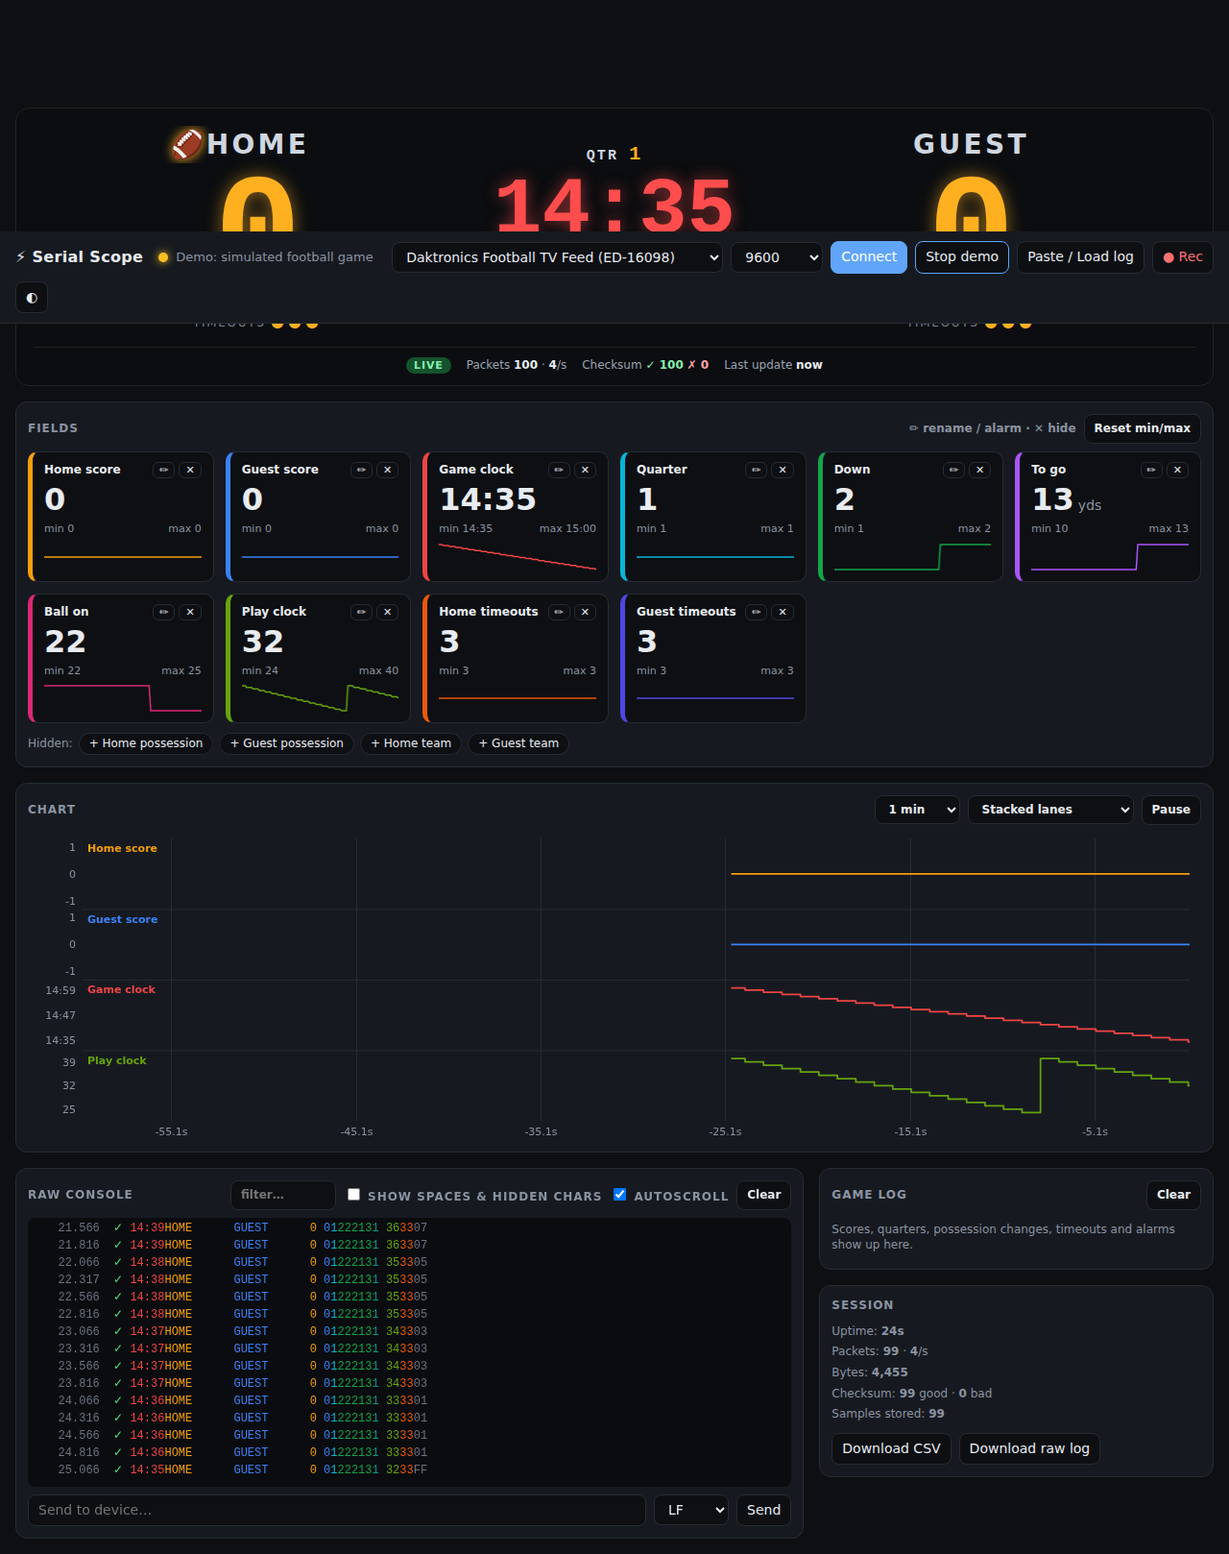
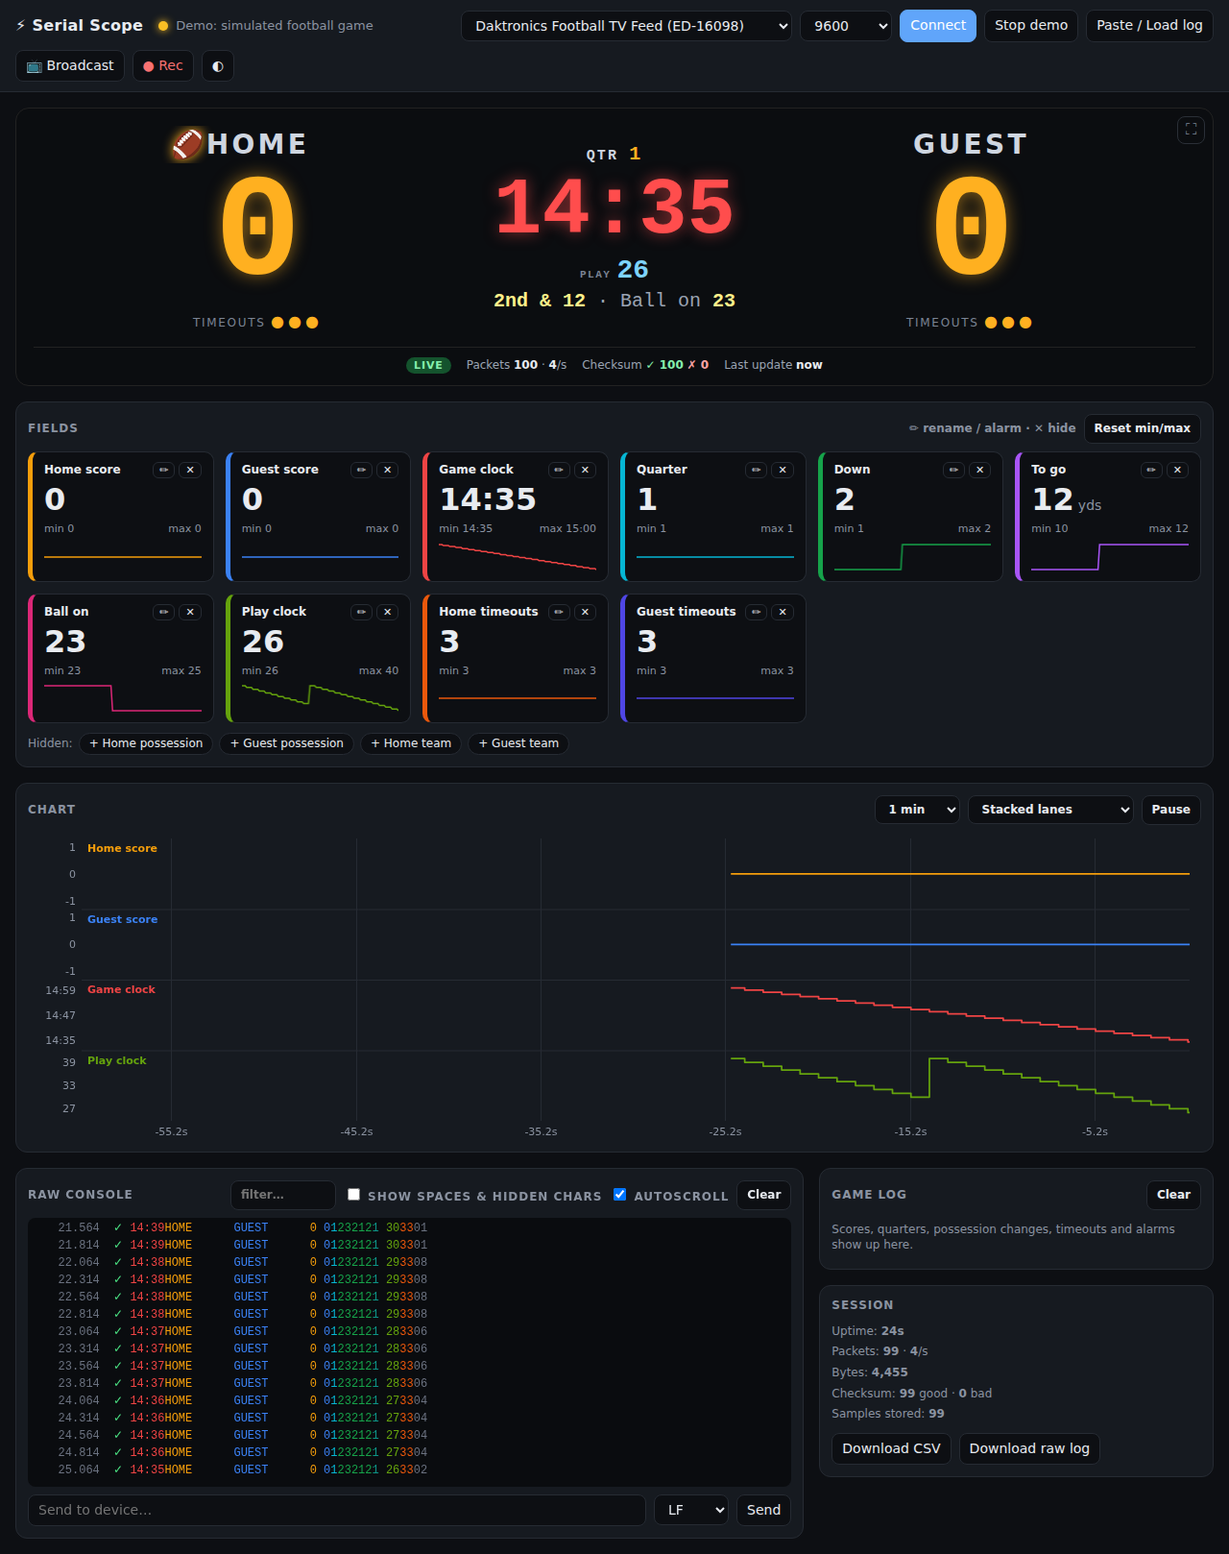
Serial Scope: add OBS broadcast overlay and full-screen scoreboard
Writes overlay.html, a live scoreboard.js and per-value .txt files to a
chosen folder for an OBS Browser Source or Text sources, with team
names/colors and score banners. Also a chroma-key overlay window and a
full-screen button on the scoreboard.

Claude-Session: https://claude.ai/code/session_01YVLBbhK5ZotABU6wziRkpi

diff --git a/serial-scope/index.html b/serial-scope/index.html
@@ -129,6 +129,22 @@
   dialog label.f { display: block; margin: 10px 0 4px; font-size: 12px; color: var(--muted); }
   dialog input[type=text], dialog input[type=number] { width: 100%; }
   dialog textarea { width: 100%; height: 160px; font: 12px ui-monospace, Consolas, monospace; }
+
+  /* ---- broadcast + full screen ---- */
+  #board { position: relative; }
+  #board .fs { position: absolute; top: 8px; right: 8px; background: transparent; color: #7b8494; border-color: #2a2f37; padding: 2px 8px; font-size: 16px; }
+  #board:fullscreen { display: flex; flex-direction: column; justify-content: center; border-radius: 0; }
+  #board:fullscreen .score { font-size: 26vh; } #board:fullscreen .clock { font-size: 15vh; }
+  #bcBtn.on { border-color: var(--ok); color: var(--ok); }
+  #bcDlg { width: min(780px, calc(100vw - 32px)); }
+  #bcDlg h3 { font-size: 13px; margin: 18px 0 4px; }
+  #bcDlg ol { margin: 6px 0; padding-left: 20px; line-height: 1.7; }
+  .prevwrap { width: 100%; overflow: hidden; border-radius: 8px; margin: 10px 0; background: #2b2f36; }
+  .prevwrap iframe { width: 1200px; height: 150px; border: 0; transform-origin: 0 0; display: block; }
+  .bcgrid { display: grid; grid-template-columns: 1fr auto 1fr auto; gap: 8px; align-items: end; }
+  .bcgrid label { font-size: 12px; color: var(--muted); display: grid; gap: 4px; }
+  .bcgrid input[type=color] { width: 48px; height: 34px; padding: 2px; }
+  @media (max-width: 560px) { .bcgrid { grid-template-columns: 1fr auto; } }
 </style>
 </head>
 <body>
@@ -145,6 +161,7 @@
   <button id="connect" class="primary">Connect</button>
   <button id="demo" title="Simulated data, to try the UI without a device">Demo</button>
   <button id="feedBtn" title="Paste text or load a Tera Term log file">Paste / Load log</button>
+  <button id="bcBtn" title="Score overlay for OBS and live streams">📺 Broadcast</button>
   <button id="rec" class="rec" title="Record values to CSV">● Rec</button>
   <button id="theme" title="Toggle theme">◐</button>
 </header>
@@ -156,6 +173,7 @@
   </div>
 
   <section id="board">
+    <button id="fsBtn" class="fs" title="Full screen scoreboard">⛶</button>
     <div class="grid">
       <div>
         <div class="team"><span class="poss" id="bHomePoss">🏈</span><span id="bHomeName">HOME</span><span class="poss"></span></div>
@@ -270,6 +288,47 @@
       <label class="hint"><input type="checkbox" id="feedSlow" checked> replay slowly (5 packets/s)</label>
     </div>
     <div class="row"><button value="feed" class="primary">Feed it in</button><button value="cancel">Cancel</button></div>
+  </form>
+</dialog>
+
+<dialog id="bcDlg">
+  <form method="dialog">
+    <b>📺 Broadcast overlay for OBS</b>
+    <div class="prevwrap" id="bcPrevWrap"><iframe id="bcPrev" title="Overlay preview"></iframe></div>
+    <div class="bcgrid">
+      <label>Home name on stream<input id="bcHomeName" type="text" placeholder="from the feed"></label>
+      <label>Color<input id="bcHomeColor" type="color"></label>
+      <label>Guest name on stream<input id="bcGuestName" type="text" placeholder="from the feed"></label>
+      <label>Color<input id="bcGuestColor" type="color"></label>
+    </div>
+    <div class="row">
+      <label class="hint"><input type="checkbox" id="bcBanners"> Pop up TOUCHDOWN / FIELD GOAL banners when the score changes</label>
+      <button type="button" id="bcTest">Test banner</button>
+    </div>
+
+    <h3>Option 1 · OBS Browser Source <span class="hint">(best: transparent background)</span></h3>
+    <div class="row">
+      <button type="button" id="bcPick" class="primary">Choose output folder…</button>
+      <button type="button" id="bcResume" hidden>Resume</button>
+      <button type="button" id="bcStop" hidden>Stop writing</button>
+    </div>
+    <p class="hint" id="bcStatus">Not writing files.</p>
+    <ol class="hint">
+      <li>Make a new empty folder (e.g. <i>Documents\Scoreboard Overlay</i>) and choose it above.</li>
+      <li>In OBS: <b>+</b> under Sources → <b>Browser</b> → tick <b>Local file</b> → pick <b>overlay.html</b> in that folder.</li>
+      <li>Width <b>1200</b>, Height <b>150</b> → OK. Drag it where you want it on screen.</li>
+    </ol>
+    <p class="hint">The folder also gets one text file per value (home_score.txt, clock.txt, down_distance.txt…)
+      for OBS <b>Text</b> sources with "Read from file" ticked.</p>
+
+    <h3>Option 2 · Overlay window</h3>
+    <div class="row">
+      <button type="button" id="bcPopup">Open overlay window</button>
+      <label class="hint">Background
+        <select id="bcKey"><option value="green">Green (chroma key)</option><option value="magenta">Magenta</option><option value="black">Black</option></select></label>
+    </div>
+    <p class="hint">In OBS add a <b>Window Capture</b> of that window, then right-click it → Filters → <b>Chroma Key</b>.</p>
+    <div class="row" style="margin-top:14px"><button value="close" class="primary">Done</button></div>
   </form>
 </dialog>
 
@@ -630,6 +689,7 @@
           const d = b - a, what = d > 0 && PLAY_NAMES[d] ? ` · ${PLAY_NAMES[d]}?` : '';
           addEvent(`🏟 <b>${esc(name)}</b> ${a} → <b>${b}</b> (${d > 0 ? '+' : ''}${d})${what}${qs}${at}`, true);
           flashScore(k);
+          if (d > 0) setBanner(k, d);
         }
       }
       if (isFinite(cur.q) && cur.q !== prev.q) addEvent(`⏱ Quarter <b>${cur.q}</b>`, true);
@@ -1094,6 +1154,262 @@
   };
 
   // =====================================================================
+  //  Broadcast: OBS overlay + text files
+  // =====================================================================
+  //  Option 1: pick a folder. We write overlay.html (an OBS Browser Source page with a
+  //  transparent background), scoreboard.js (live data the overlay reloads 4x/s; a <script>
+  //  include works from file:// where fetch() does not), and one .txt per value for Text sources.
+  //  Option 2: a pop-up overlay window on a chroma-key background for Window Capture.
+  const bc = Object.assign({ homeName: '', guestName: '', homeColor: '#b91c1c', guestColor: '#1d4ed8', banners: true, key: 'green' }, store.get('bcast', {}));
+  const BANNERS = { 6: 'TOUCHDOWN', 3: 'FIELD GOAL', 2: '2 POINTS', 1: 'EXTRA POINT' };
+  let banner = null, bannerSeq = 0;
+  function setBanner(team, d) { banner = { id: ++bannerSeq, at: Date.now(), team, text: BANNERS[d] || '+' + d }; }
+
+  function bcState() {
+    const F = k => fields.get(k);
+    const T = k => { const f = F(k); return !f ? '' : f.kind === 'num' && isFinite(f.last) ? String(f.last) : (f.text || ''); };
+    const N = k => F(k)?.last ?? NaN;
+    const q = N('quarter'), down = N('down'), togo = N('toGo'), ball = N('ballOn');
+    return {
+      hn: bc.homeName || T('homeName') || 'HOME', gn: bc.guestName || T('guestName') || 'GUEST',
+      hs: T('home'), gs: T('guest'), clock: T('clock'), play: T('playClock'),
+      q: isFinite(q) && q > 0 ? (q > 4 ? 'OT' : ordinal(q)) : '',
+      dd: isFinite(down) && down > 0 ? ordinal(down) + (isFinite(togo) ? ' & ' + togo : '') : '',
+      ball: isFinite(ball) ? 'Ball on ' + ball : '',
+      poss: hasBall(F('homePoss')?.text) ? 'home' : hasBall(F('guestPoss')?.text) ? 'guest' : '',
+      htol: isFinite(N('homeTOL')) ? N('homeTOL') : null, gtol: isFinite(N('guestTOL')) ? N('guestTOL') : null,
+      hc: bc.homeColor, gc: bc.guestColor, banners: bc.banners, banner,
+    };
+  }
+  function bcTextFiles(s) {
+    const n = v => v == null ? '' : String(v);
+    return {
+      'home_name.txt': s.hn, 'guest_name.txt': s.gn, 'home_score.txt': s.hs, 'guest_score.txt': s.gs,
+      'quarter.txt': s.q, 'clock.txt': s.clock, 'play_clock.txt': s.play, 'down_distance.txt': s.dd,
+      'ball_on.txt': s.ball, 'possession.txt': s.poss === 'home' ? s.hn : s.poss === 'guest' ? s.gn : '',
+      'home_timeouts.txt': n(s.htol), 'guest_timeouts.txt': n(s.gtol),
+    };
+  }
+
+  // The overlay page's own script. It's stringified into the page, so it must not use outside variables.
+  function overlayScript(mode) {
+    const $ = id => document.getElementById(id);
+    let lastBanner = null, hideT = 0;
+    const prev = {};
+    function team(id, name, score, poss, tol, color) {
+      const el = $(id);
+      el.style.setProperty('--c', color);
+      el.querySelector('.name').textContent = name;
+      const sc = el.querySelector('.score');
+      if (prev[id] !== undefined && prev[id] !== score) { sc.classList.remove('pop'); void sc.offsetWidth; sc.classList.add('pop'); }
+      prev[id] = score;
+      sc.textContent = score;
+      el.querySelector('.poss').classList.toggle('on', poss);
+      const t = el.querySelector('.tol'), has = typeof tol === 'number' && tol >= 0;
+      t.style.display = has ? '' : 'none';
+      [...t.children].forEach((i, k) => i.classList.toggle('used', has && k >= tol));
+    }
+    function render(s) {
+      team('home', s.hn, s.hs, s.poss === 'home', s.htol, s.hc);
+      team('guest', s.gn, s.gs, s.poss === 'guest', s.gtol, s.gc);
+      $('q').textContent = s.q ? s.q + (s.q === 'OT' ? '' : ' QTR') : '';
+      $('clock').textContent = s.clock || '';
+      $('dd').textContent = s.dd || '';
+      $('ball').textContent = s.ball || '';
+      $('play').textContent = '';
+      if (s.play) { $('play').append('PLAY '); const b = document.createElement('b'); b.textContent = s.play; $('play').append(b); }
+      $('bug').classList.toggle('nostrip', !s.dd && !s.ball && !s.play);
+      const b = s.banner;
+      if (b && b.id !== lastBanner) {
+        lastBanner = b.id;
+        if (s.banners && Date.now() - b.at < 6000) {
+          const el = $('banner');
+          el.textContent = b.text + '  ·  ' + (b.team === 'home' ? s.hn : s.gn);
+          el.style.setProperty('--c', b.team === 'home' ? s.hc : s.gc);
+          el.classList.add('show'); clearTimeout(hideT);
+          hideT = setTimeout(() => el.classList.remove('show'), 4500);
+        }
+      }
+    }
+    window.render = window.SCOREBOARD = render;
+    if (mode === 'poll') setInterval(() => {
+      const s = document.createElement('script');
+      s.src = 'scoreboard.js?' + Date.now();
+      s.onload = s.onerror = () => s.remove();
+      document.head.appendChild(s);
+    }, 250);
+  }
+  const SC = 'script';
+  function overlayHtml(mode, bg) {
+    return `<!doctype html>
+<html><head><meta charset="utf-8"><title>Scoreboard overlay</title>
+<style>
+  html, body { margin: 0; overflow: hidden; background: transparent; font-family: "Segoe UI", system-ui, -apple-system, Roboto, sans-serif; }
+  body.bg-green { background: #00ff00; } body.bg-magenta { background: #ff00ff; } body.bg-black { background: #000; }
+  body.bg-checker { background: repeating-conic-gradient(#3a3f47 0 25%, #2b2f36 0 50%) 0 0 / 24px 24px; }
+  .bug { position: absolute; left: 10px; top: 10px; width: 1180px; filter: drop-shadow(0 6px 14px rgba(0,0,0,.5)); }
+  .bar { position: relative; display: flex; height: 86px; border-radius: 10px 10px 0 0; overflow: hidden; background: #0d1117; }
+  .nostrip .bar { border-radius: 10px; }
+  .team { flex: 1; display: flex; align-items: center; gap: 12px; padding-left: 20px; color: #fff; position: relative; min-width: 0;
+    background: linear-gradient(180deg, rgba(255,255,255,.14), rgba(0,0,0,.28)), var(--c, #444); }
+  .team + .team { border-left: 3px solid #0d1117; }
+  .name { flex: 1; min-width: 0; font-size: 34px; font-weight: 800; letter-spacing: .06em; text-transform: uppercase;
+    white-space: nowrap; overflow: hidden; text-overflow: ellipsis; text-shadow: 0 2px 4px rgba(0,0,0,.35); }
+  .poss { font-size: 28px; visibility: hidden; } .poss.on { visibility: visible; }
+  .score { align-self: stretch; min-width: 96px; display: grid; place-items: center; font-size: 58px; font-weight: 900;
+    background: rgba(0,0,0,.28); font-variant-numeric: tabular-nums; }
+  .score.pop { animation: pop .9s ease-out; }
+  @keyframes pop { 0% { transform: scale(1.35); background: rgba(255,255,255,.45); } 100% { transform: scale(1); } }
+  .tol { position: absolute; left: 20px; bottom: 9px; display: flex; gap: 6px; }
+  .tol i { width: 24px; height: 5px; border-radius: 3px; background: #ffd34d; }
+  .tol i.used { background: rgba(255,255,255,.25); }
+  .mid { width: 220px; display: grid; place-content: center; text-align: center; color: #fff; background: #0d1117; }
+  #q { font-size: 17px; font-weight: 800; letter-spacing: .16em; color: #ffb020; min-height: 1.2em; }
+  #clock { font-size: 46px; font-weight: 800; line-height: 1; font-variant-numeric: tabular-nums; }
+  .banner { position: absolute; inset: 0; display: grid; place-items: center; color: #fff; font-size: 50px; font-weight: 900;
+    letter-spacing: .14em; white-space: nowrap; background: linear-gradient(180deg, rgba(255,255,255,.18), rgba(0,0,0,.3)), var(--c, #b91c1c);
+    transform: scaleX(0); transition: transform .35s cubic-bezier(.2,.9,.3,1.2); }
+  .banner.show { transform: scaleX(1); }
+  .strip { height: 40px; display: flex; justify-content: center; align-items: center; gap: 34px; background: #f5f7fa; color: #0d1117;
+    font-size: 22px; font-weight: 800; border-radius: 0 0 10px 10px; }
+  .strip span:empty { display: none; }
+  .strip b { color: #c81e1e; }
+  .nostrip .strip { display: none; }
+</style></head>
+<body class="bg-${bg}">
+<div class="bug nostrip" id="bug">
+  <div class="bar">
+    <div class="team" id="home"><span class="name">HOME</span><span class="poss">🏈</span><span class="score"></span><span class="tol"><i></i><i></i><i></i></span></div>
+    <div class="team" id="guest"><span class="name">GUEST</span><span class="poss">🏈</span><span class="score"></span><span class="tol"><i></i><i></i><i></i></span></div>
+    <div class="mid"><div id="q"></div><div id="clock"></div></div>
+    <div class="banner" id="banner"></div>
+  </div>
+  <div class="strip"><span id="dd"></span><span id="ball"></span><span id="play"></span></div>
+</div>
+<${SC}>(${overlayScript.toString()})(${JSON.stringify(mode)});</${SC}>
+</body></html>`;
+  }
+  const SETUP_TXT = [
+    'Serial Scope -> OBS',
+    '',
+    '1. In OBS, click + under Sources and choose "Browser".',
+    '2. Tick "Local file" and pick overlay.html in this folder.',
+    '3. Set Width 1200 and Height 150, then click OK.',
+    '4. Drag and resize the overlay to where you want it on the stream.',
+    '',
+    'The .txt files hold single values (home_score.txt, clock.txt, ...).',
+    'Use them with a "Text (GDI+)" source: tick "Read from file".',
+    '',
+    'Keep Serial Scope open in Chrome or Edge while streaming. It updates these files several times a second.',
+  ].join('\r\n');
+
+  // ---- folder output ----
+  let outDir = null, lastWritten = {}, writing = false, lastWriteAt = null;
+  function idb(mode, fn) {
+    return new Promise((res, rej) => {
+      const r = indexedDB.open('serialscope', 1);
+      r.onupgradeneeded = () => r.result.createObjectStore('kv');
+      r.onerror = () => rej(r.error);
+      r.onsuccess = () => {
+        try {
+          const tx = r.result.transaction('kv', mode), q = fn(tx.objectStore('kv'));
+          tx.oncomplete = () => res(q.result); tx.onerror = () => rej(tx.error);
+        } catch (e) { rej(e); }
+      };
+    });
+  }
+  async function writeFile(name, text) {
+    const fh = await outDir.getFileHandle(name, { create: true });
+    const w = await fh.createWritable();
+    await w.write(text); await w.close();
+  }
+  async function startFolder(h) {
+    outDir = h; lastWritten = {};
+    try {
+      await writeFile('overlay.html', overlayHtml('poll', 'transparent'));
+      await writeFile('OBS-SETUP.txt', SETUP_TXT);
+      sys(`broadcast: writing overlay files to folder "${h.name}"`);
+      try { await idb('readwrite', s => s.put(h, 'outDir')); } catch {}
+    } catch (e) { sys('broadcast: could not write to that folder: ' + e.message); outDir = null; }
+    updateBcUi();
+  }
+  async function pumpFiles() {
+    if (!outDir || writing) return;
+    writing = true;
+    try {
+      const st = bcState();
+      const files = bcTextFiles(st);
+      files['scoreboard.js'] = 'SCOREBOARD(' + JSON.stringify(st) + ');';
+      for (const [name, text] of Object.entries(files)) {
+        if (lastWritten[name] === text) continue;
+        await writeFile(name, text); lastWritten[name] = text;
+      }
+      lastWriteAt = now();
+    } catch (e) { sys('broadcast: writing stopped: ' + e.message); outDir = null; updateBcUi(); }
+    finally { writing = false; }
+  }
+  setInterval(pumpFiles, 250);
+
+  let savedDir = null;
+  idb('readonly', s => s.get('outDir')).then(h => { savedDir = h || null; updateBcUi(); }).catch(() => {});
+  $('bcPick').onclick = async () => {
+    if (!window.showDirectoryPicker) { $('bcStatus').textContent = 'This browser can\'t write to folders. Use Chrome or Edge on a desktop.'; return; }
+    try { await startFolder(await showDirectoryPicker({ id: 'serialscope-obs', mode: 'readwrite' })); }
+    catch (e) { if (e.name !== 'AbortError') sys('broadcast: ' + e.message); }
+  };
+  $('bcResume').onclick = async () => {
+    try { if (await savedDir.requestPermission({ mode: 'readwrite' }) === 'granted') await startFolder(savedDir); }
+    catch (e) { sys('broadcast: ' + e.message); }
+  };
+  $('bcStop').onclick = () => { outDir = null; sys('broadcast: stopped writing files'); updateBcUi(); };
+  function updateBcUi() {
+    $('bcStop').hidden = !outDir;
+    $('bcResume').hidden = !!outDir || !savedDir;
+    if (savedDir) $('bcResume').textContent = `Resume “${savedDir.name}”`;
+    $('bcBtn').classList.toggle('on', !!outDir);
+    if (!outDir) $('bcStatus').textContent = 'Not writing files.';
+  }
+
+  // ---- pop-up window + in-dialog preview ----
+  let popup = null;
+  function openPopup() {
+    popup = window.open('', 'serialscope-overlay', 'width=1220,height=200');
+    if (!popup) { sys('broadcast: the pop-up was blocked. Allow pop-ups for this page'); return; }
+    popup.document.open(); popup.document.write(overlayHtml('push', bc.key)); popup.document.close();
+  }
+  $('bcPopup').onclick = openPopup;
+  function bcPush() {
+    const dlgOpen = $('bcDlg').open;
+    if (outDir) $('bcStatus').textContent = `Writing to “${outDir.name}”` + (lastWriteAt != null ? ` · updated ${fmtDur(Math.max(0, Math.floor(now() - lastWriteAt)))} ago` : '');
+    if (!dlgOpen && !(popup && !popup.closed)) return;
+    const st = bcState();
+    for (const w of [popup && !popup.closed ? popup : null, dlgOpen ? $('bcPrev').contentWindow : null]) {
+      try { w?.render?.(st); } catch {}
+    }
+  }
+  function fitPreview() {
+    const wrap = $('bcPrevWrap'), s = wrap.clientWidth / 1200;
+    $('bcPrev').style.transform = `scale(${s})`; wrap.style.height = 150 * s + 'px';
+  }
+  $('bcBtn').onclick = () => {
+    for (const [id, k] of [['bcHomeName', 'homeName'], ['bcGuestName', 'guestName'], ['bcHomeColor', 'homeColor'], ['bcGuestColor', 'guestColor'], ['bcKey', 'key']]) $(id).value = bc[k];
+    $('bcBanners').checked = bc.banners;
+    if (!$('bcPrev').srcdoc) $('bcPrev').srcdoc = overlayHtml('push', 'checker');
+    $('bcDlg').showModal(); fitPreview();
+  };
+  window.addEventListener('resize', () => { if ($('bcDlg').open) fitPreview(); });
+  for (const [id, k] of [['bcHomeName', 'homeName'], ['bcGuestName', 'guestName'], ['bcHomeColor', 'homeColor'], ['bcGuestColor', 'guestColor'], ['bcKey', 'key'], ['bcBanners', 'banners']])
+    $(id).addEventListener('input', () => {
+      bc[k] = k === 'banners' ? $(id).checked : $(id).value.trim();
+      store.set('bcast', bc);
+      if (k === 'key' && popup && !popup.closed) popup.document.body.className = 'bg-' + bc.key;
+    });
+  $('bcTest').onclick = () => setBanner(Math.random() < .5 ? 'home' : 'guest', [6, 3, 1][Math.floor(Math.random() * 3)]);
+
+  // ---- full-screen scoreboard ----
+  $('fsBtn').onclick = () => document.fullscreenElement ? document.exitFullscreen() : $('board').requestFullscreen?.();
+
+  // =====================================================================
   //  Wiring
   // =====================================================================
   $('connect').onclick = connect;
@@ -1115,7 +1431,7 @@
   let lastUi = 0;
   (function frame(ts) {
     drawChart();
-    if (ts - lastUi > 100) { lastUi = ts; updateTiles(); updateBoard(); flushTerm(); }
+    if (ts - lastUi > 100) { lastUi = ts; updateTiles(); updateBoard(); flushTerm(); bcPush(); }
     requestAnimationFrame(frame);
   })(0);
   updateStats();

diff --git a/serial-scope/README.md b/serial-scope/README.md
@@ -44,4 +44,23 @@ The screenshot's data decodes as: clock **97:42**, **HOME 23 – GUEST 8**, **Q1
 - Console shows one packet per line, color-coded by field, with an option to reveal spaces and SOH/EOT
 - An **Auto** format for ordinary text devices. It switches to the Daktronics format by itself if packets show up.
 
+## 📺 Broadcast overlay (OBS)
+
+Click **📺 Broadcast** to put a live TV-style score bar on your stream. It shows team names and colors, scores,
+quarter, clock, down & distance, ball on, play clock, possession and timeouts. When the score changes it pops a
+TOUCHDOWN / FIELD GOAL / EXTRA POINT banner. You can set the team names and colors shown on the stream there.
+
+**Option 1: OBS Browser Source (best, transparent background)**
+1. In the Broadcast window, click **Choose output folder…** and pick an empty folder.
+2. In OBS: **+** under Sources → **Browser** → tick **Local file** → pick `overlay.html` in that folder.
+3. Width **1200**, Height **150** → OK, then drag it into place.
+
+Keep Serial Scope open in Chrome or Edge. It rewrites `scoreboard.js` in that folder several times a second, and the
+overlay reloads it. The folder also gets one `.txt` file per value (`home_score.txt`, `clock.txt`, `down_distance.txt`, …)
+for OBS **Text (GDI+)** sources with *Read from file* ticked. Next time, click **Resume** to reuse the same folder.
+
+**Option 2: overlay window.** Click **Open overlay window**, then add it to OBS with **Window Capture** plus a **Chroma Key** filter.
+
+The ⛶ button on the scoreboard makes it full screen, for a TV or second monitor.
+
 Settings (format, baud rate, field names, alarms) are saved in the browser.
